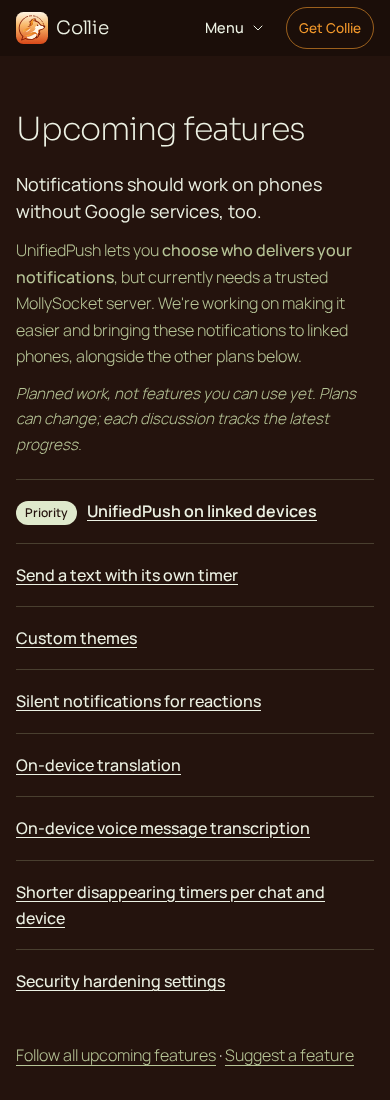
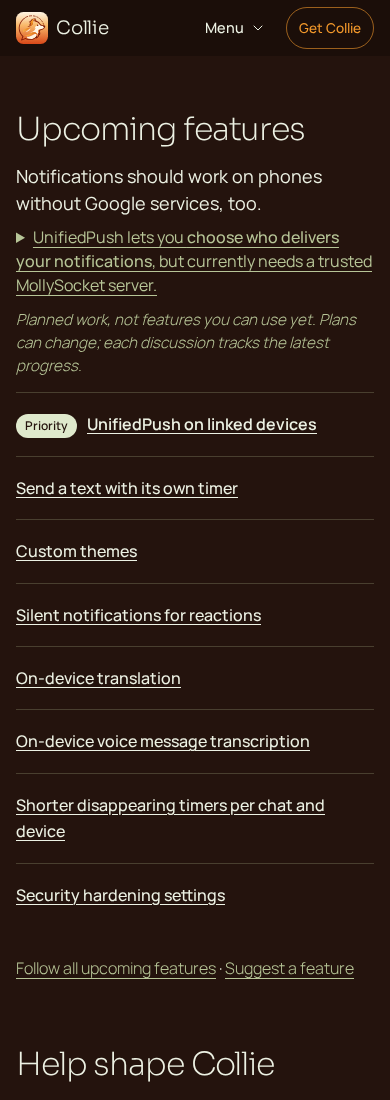
Record readable roadmap and supporting-text browser proof
Refresh affected source renders, measured disclosure behavior and current review context while retaining native image provenance.

Layer: website

diff --git a/docs/screenshots/pr-95/render-checks.md b/docs/screenshots/pr-95/render-checks.md
@@ -1,0 +1,156 @@
+# Render and disclosure observations
+
+Source: e532bde62ac1e4d4429b822055ee60ecc365c38a. Unmodified built HTML/CSS/assets rendered through render-source.py.txt. Overlay scrollbars; DPR1. These console observations were captured with the corresponding PNGs. No live-input success is inferred from programmatic DOM actions.
+
+## features-desktop-light.png
+
+```text
+ready {"width":1280,"height":1000,"usable":1280,"fonts":"loaded","images":[],"overflow":false,"dark":false}
+measure {"bodyTextToCardEdge":51.65625,"fiveHeight":668,"tap":{"width":297,"height":46},"helpWeight":"400"}
+planPositions {"scrollY":1169,"firstPlanBorderViewportY":1325.015625,"firstPlanBorderDocY":2494.015625,"firstPlanTitleViewportY":1344.015625,"leadHeight":27,"detailHeight":78.390625,"introCombinedHeight":117.390625,"statusHeight":50.15625,"statusToList":32}
+sectionSpacing {"featureToUpcoming":96,"upcomingToCommunity":96,"communityToGet":96,"bodyToDivider":20,"dividerToCardBottom":67.84375}
+disclosure {"open":true,"summaryHeight":44,"summaryTag":"SUMMARY","planCount":8,"helpTitle":"20px","detailWeight":"400","heroLedeWeight":"300"}
+position {"scrollY":1169,"section":23.875,"getY":3559.328125,"background":"rgb(249, 251, 244)"}
+```
+
+## features-tablet-light.png
+
+```text
+ready {"width":768,"height":1300,"usable":768,"fonts":"loaded","images":[true],"overflow":false,"dark":false}
+measure {"bodyTextToCardEdge":212.5625,"fiveHeight":668,"tap":{"width":276,"height":70},"helpWeight":"400"}
+planPositions {"scrollY":1307,"firstPlanBorderViewportY":1716.53125,"firstPlanBorderDocY":3023.53125,"firstPlanTitleViewportY":1735.53125,"leadHeight":27,"detailHeight":113.5625,"introCombinedHeight":152.5625,"statusHeight":50.15625,"statusToList":32}
+sectionSpacing {"featureToUpcoming":120,"upcomingToCommunity":64,"communityToGet":112,"bodyToDivider":20,"dividerToCardBottom":33}
+disclosure {"open":true,"summaryHeight":52.78125,"summaryTag":"SUMMARY","planCount":8,"helpTitle":"20px","detailWeight":"400","heroLedeWeight":"300"}
+position {"scrollY":1307,"section":56.171875,"getY":4258.046875,"background":"rgb(249, 251, 244)"}
+```
+
+## features-mobile-light.png
+
+```text
+ready {"width":390,"height":1100,"usable":390,"fonts":"loaded","images":[true],"overflow":false,"dark":false}
+measure {"bodyTextToCardEdge":17,"fiveHeight":614.6875,"tap":{"width":306,"height":48},"helpWeight":"400"}
+planPositions {"scrollY":1360,"firstPlanBorderViewportY":1522.84375,"firstPlanBorderDocY":2882.84375,"firstPlanTitleViewportY":1541.84375,"leadHeight":54,"detailHeight":72,"introCombinedHeight":134,"statusHeight":68.390625,"statusToList":14}
+sectionSpacing {"featureToUpcoming":96,"upcomingToCommunity":64,"communityToGet":112,"bodyToDivider":-387.765625,"dividerToCardBottom":404.765625}
+disclosure {"open":false,"summaryHeight":72,"summaryTag":"SUMMARY","planCount":8,"helpTitle":"20px","detailWeight":"400","heroLedeWeight":"300"}
+position {"scrollY":1360,"section":56.46875,"getY":4632.078125,"background":"rgb(249, 251, 244)"}
+```
+
+## features-narrow-light.png
+
+```text
+ready {"width":320,"height":1300,"usable":320,"fonts":"loaded","images":[true],"overflow":false,"dark":false}
+measure {"bodyTextToCardEdge":17,"fiveHeight":685.625,"tap":{"width":236,"height":48},"helpWeight":"400"}
+planPositions {"scrollY":1367,"firstPlanBorderViewportY":1733.875,"firstPlanBorderDocY":3100.875,"firstPlanTitleViewportY":1752.875,"leadHeight":81,"detailHeight":96,"introCombinedHeight":185,"statusHeight":68.390625,"statusToList":14}
+sectionSpacing {"featureToUpcoming":96,"upcomingToCommunity":64,"communityToGet":112,"bodyToDivider":-414.640625,"dividerToCardBottom":431.640625}
+disclosure {"open":false,"summaryHeight":96,"summaryTag":"SUMMARY","planCount":8,"helpTitle":"20px","detailWeight":"400","heroLedeWeight":"300"}
+position {"scrollY":1367,"section":56.15625,"getY":5043.671875,"background":"rgb(249, 251, 244)"}
+```
+
+## upcoming-desktop-light.png
+
+```text
+ready {"width":1280,"height":900,"usable":1280,"fonts":"loaded","images":[],"overflow":false,"dark":false}
+measure {"bodyTextToCardEdge":51.65625,"fiveHeight":668,"tap":{"width":297,"height":46},"helpWeight":"400"}
+planPositions {"scrollY":2127,"firstPlanBorderViewportY":367.015625,"firstPlanBorderDocY":2494.015625,"firstPlanTitleViewportY":386.015625,"leadHeight":27,"detailHeight":78.390625,"introCombinedHeight":117.390625,"statusHeight":50.15625,"statusToList":32}
+sectionSpacing {"featureToUpcoming":96,"upcomingToCommunity":96,"communityToGet":96,"bodyToDivider":20,"dividerToCardBottom":67.84375}
+disclosure {"open":true,"summaryHeight":44,"summaryTag":"SUMMARY","planCount":8,"helpTitle":"20px","detailWeight":"400","heroLedeWeight":"300"}
+position {"scrollY":2127,"section":23.71875,"getY":3559.328125,"background":"rgb(249, 251, 244)"}
+```
+
+## upcoming-mobile-dark.png
+
+```text
+ready {"width":390,"height":1100,"usable":390,"fonts":"loaded","images":[true],"overflow":false,"dark":true}
+measure {"bodyTextToCardEdge":17,"fiveHeight":614.6875,"tap":{"width":306,"height":48},"helpWeight":"400"}
+planPositions {"scrollY":2491,"firstPlanBorderViewportY":391.84375,"firstPlanBorderDocY":2882.84375,"firstPlanTitleViewportY":410.84375,"leadHeight":54,"detailHeight":72,"introCombinedHeight":134,"statusHeight":68.390625,"statusToList":14}
+sectionSpacing {"featureToUpcoming":96,"upcomingToCommunity":64,"communityToGet":112,"bodyToDivider":743.234375,"dividerToCardBottom":-726.234375}
+disclosure {"open":false,"summaryHeight":72,"summaryTag":"SUMMARY","planCount":8,"helpTitle":"20px","detailWeight":"400","heroLedeWeight":"300"}
+position {"scrollY":2491,"section":55.625,"getY":4632.078125,"background":"rgb(36, 19, 13)"}
+```
+
+## upcoming-narrow-light.png
+
+```text
+ready {"width":320,"height":1250,"usable":320,"fonts":"loaded","images":[true],"overflow":false,"dark":false}
+measure {"bodyTextToCardEdge":17,"fiveHeight":685.625,"tap":{"width":236,"height":48},"helpWeight":"400"}
+planPositions {"scrollY":2622,"firstPlanBorderViewportY":478.875,"firstPlanBorderDocY":3100.875,"firstPlanTitleViewportY":497.875,"leadHeight":81,"detailHeight":96,"introCombinedHeight":185,"statusHeight":68.390625,"statusToList":14}
+sectionSpacing {"featureToUpcoming":96,"upcomingToCommunity":64,"communityToGet":112,"bodyToDivider":840.359375,"dividerToCardBottom":-823.359375}
+disclosure {"open":false,"summaryHeight":96,"summaryTag":"SUMMARY","planCount":8,"helpTitle":"20px","detailWeight":"400","heroLedeWeight":"300"}
+position {"scrollY":2622,"section":55.828125,"getY":5043.671875,"background":"rgb(249, 251, 244)"}
+```
+
+## community-desktop-light.png
+
+```text
+ready {"width":1280,"height":900,"usable":1280,"fonts":"loaded","images":[],"overflow":false,"dark":false}
+measure {"bodyTextToCardEdge":51.65625,"fiveHeight":668,"tap":{"width":297,"height":46},"helpWeight":"400"}
+planPositions {"scrollY":2837,"firstPlanBorderViewportY":-342.984375,"firstPlanBorderDocY":2494.015625,"firstPlanTitleViewportY":-323.984375,"leadHeight":27,"detailHeight":78.390625,"introCombinedHeight":117.390625,"statusHeight":50.15625,"statusToList":32}
+sectionSpacing {"featureToUpcoming":96,"upcomingToCommunity":96,"communityToGet":96,"bodyToDivider":20,"dividerToCardBottom":67.84375}
+disclosure {"open":true,"summaryHeight":44,"summaryTag":"SUMMARY","planCount":8,"helpTitle":"20px","detailWeight":"400","heroLedeWeight":"300"}
+position {"scrollY":2837,"section":23.796875,"getY":3559.328125,"background":"rgb(249, 251, 244)"}
+```
+
+## community-mobile-dark.png
+
+```text
+ready {"width":390,"height":1300,"usable":390,"fonts":"loaded","images":[true],"overflow":false,"dark":true}
+measure {"bodyTextToCardEdge":17,"fiveHeight":614.6875,"tap":{"width":306,"height":48},"helpWeight":"400"}
+planPositions {"scrollY":3450,"firstPlanBorderViewportY":-567.15625,"firstPlanBorderDocY":2882.84375,"firstPlanTitleViewportY":-548.15625,"leadHeight":54,"detailHeight":72,"introCombinedHeight":134,"statusHeight":68.390625,"statusToList":14}
+sectionSpacing {"featureToUpcoming":96,"upcomingToCommunity":64,"communityToGet":112,"bodyToDivider":1702.234375,"dividerToCardBottom":-1685.234375}
+disclosure {"open":false,"summaryHeight":72,"summaryTag":"SUMMARY","planCount":8,"helpTitle":"20px","detailWeight":"400","heroLedeWeight":"300"}
+position {"scrollY":3450,"section":55.765625,"getY":4632.078125,"background":"rgb(36, 19, 13)"}
+```
+
+## community-narrow-light.png
+
+```text
+ready {"width":320,"height":1500,"usable":320,"fonts":"loaded","images":[true],"overflow":false,"dark":false}
+measure {"bodyTextToCardEdge":17,"fiveHeight":685.625,"tap":{"width":236,"height":48},"helpWeight":"400"}
+planPositions {"scrollY":3749,"firstPlanBorderViewportY":-648.125,"firstPlanBorderDocY":3100.875,"firstPlanTitleViewportY":-629.125,"leadHeight":81,"detailHeight":96,"introCombinedHeight":185,"statusHeight":68.390625,"statusToList":14}
+sectionSpacing {"featureToUpcoming":96,"upcomingToCommunity":64,"communityToGet":112,"bodyToDivider":1967.359375,"dividerToCardBottom":-1950.359375}
+disclosure {"open":false,"summaryHeight":96,"summaryTag":"SUMMARY","planCount":8,"helpTitle":"20px","detailWeight":"400","heroLedeWeight":"300"}
+position {"scrollY":3749,"section":55.765625,"getY":5043.671875,"background":"rgb(249, 251, 244)"}
+```
+
+## downloads-footer-desktop-light.png
+
+```text
+ready {"width":1280,"height":1100,"usable":1280,"fonts":"loaded","images":[true,true],"overflow":false,"dark":false}
+measure {"bodyTextToCardEdge":51.65625,"fiveHeight":668,"tap":{"width":297,"height":46},"helpWeight":"400"}
+planPositions {"scrollY":3471,"firstPlanBorderViewportY":-976.984375,"firstPlanBorderDocY":2494.015625,"firstPlanTitleViewportY":-957.984375,"leadHeight":27,"detailHeight":78.390625,"introCombinedHeight":117.390625,"statusHeight":50.15625,"statusToList":32}
+sectionSpacing {"featureToUpcoming":96,"upcomingToCommunity":96,"communityToGet":96,"bodyToDivider":20,"dividerToCardBottom":67.84375}
+disclosure {"open":true,"summaryHeight":44,"summaryTag":"SUMMARY","planCount":8,"helpTitle":"20px","detailWeight":"400","heroLedeWeight":"300"}
+position {"scrollY":3471,"section":88.328125,"getY":3559.328125,"background":"rgb(249, 251, 244)"}
+```
+
+## downloads-mobile-dark.png
+
+```text
+ready {"width":390,"height":1100,"usable":390,"fonts":"loaded","images":[true,true],"overflow":false,"dark":true}
+measure {"bodyTextToCardEdge":17,"fiveHeight":614.6875,"tap":{"width":306,"height":48},"helpWeight":"400"}
+planPositions {"scrollY":4576,"firstPlanBorderViewportY":-1693.15625,"firstPlanBorderDocY":2882.84375,"firstPlanTitleViewportY":-1674.15625,"leadHeight":54,"detailHeight":72,"introCombinedHeight":134,"statusHeight":68.390625,"statusToList":14}
+sectionSpacing {"featureToUpcoming":96,"upcomingToCommunity":64,"communityToGet":112,"bodyToDivider":2828.234375,"dividerToCardBottom":-2811.234375}
+disclosure {"open":false,"summaryHeight":72,"summaryTag":"SUMMARY","planCount":8,"helpTitle":"20px","detailWeight":"400","heroLedeWeight":"300"}
+position {"scrollY":4576,"section":56.078125,"getY":4632.078125,"background":"rgb(36, 19, 13)"}
+```
+
+## page-top-mobile-light.png
+
+```text
+ready {"width":390,"height":844,"usable":390,"fonts":"loaded","images":[true,true,true,true],"overflow":false,"dark":false}
+measure {"bodyTextToCardEdge":17,"fiveHeight":614.6875,"tap":{"width":306,"height":48},"helpWeight":"400"}
+planPositions {"scrollY":0,"firstPlanBorderViewportY":2882.84375,"firstPlanBorderDocY":2882.84375,"firstPlanTitleViewportY":2901.84375,"leadHeight":54,"detailHeight":72,"introCombinedHeight":134,"statusHeight":68.390625,"statusToList":14}
+sectionSpacing {"featureToUpcoming":96,"upcomingToCommunity":64,"communityToGet":112,"bodyToDivider":-1747.765625,"dividerToCardBottom":1764.765625}
+disclosure {"open":false,"summaryHeight":72,"summaryTag":"SUMMARY","planCount":8,"helpTitle":"20px","detailWeight":"400","heroLedeWeight":"300"}
+position {"scrollY":0,"section":56,"getY":4632.078125,"background":"rgb(249, 251, 244)"}
+```
+
+## Native disclosure DOM probes
+
+The diagnostic wrapper separately (a) invoked the actual summary twice and Why anchor once, (b) set the fragment before the existing site script, and (c) omitted only the site script. No CSS or page content was changed for these probes; these are not screenshot replacements or a browser-wide JavaScript-disable test.
+
+```text
+behavior {"mode":"click","before":false,"togglesOpen":true,"togglesClosed":true,"whyOpens":true,"planCount":8,"explanationVisible":true}
+behavior {"mode":"direct","open":true,"explanationVisible":true,"planCount":8}
+behavior {"mode":"no-site-js","open":true,"explanationVisible":true,"planCount":8}
+```

diff --git a/docs/screenshots/pr-95/README.md b/docs/screenshots/pr-95/README.md
@@ -1,10 +1,10 @@
 # Current website review evidence
 
-Implementation source is signed 53465c289ae5fc5487ea1900132a08e27c7569e0; native assets/provenance are signed b3b4857fe6ebc0338f732cd9129c8b1bc94880f0. Review the containing evidence commit as one stable candidate. No rating is supplied by the implementation owner.
+Implementation source is signed e532bde62ac1e4d4429b822055ee60ecc365c38a; native assets/provenance are signed b3b4857fe6ebc0338f732cd9129c8b1bc94880f0. Review the containing evidence commit as one stable candidate. No rating is supplied by the implementation owner.
 
 ## Current views
 
-All paths below are in this directory. The current phone page tops, desktop facts, Upcoming, downloads and phone introductions are freshly rendered after this focused clarity pass. Unchanged component views retain their original source provenance: feature views from b7b32031a75c, community from 4a954f19b0b0, downloads/footer from 2917bdc27ad5. Their component source/appearance is unchanged by this image-only hero pass; their document offsets are reported separately.
+All paths below are in this directory. Features at all four widths, Upcoming at 320/390/1280, community at 320/390/1280, desktop-light/phone-dark downloads and the 390 page top are freshly rendered from this source. The 390 page-top PNG is byte-identical to b11ce6f9cebac1ac52b8c711b188a249f1f13429. Other hero/about/download/footer views retain that revision's unchanged component appearance; their source provenance is explicit rather than claimed as new captures. Historical menu/Obtainium support retains its earlier provenance below.
 
 | View | File | Actual iframe CSS viewport / PNG dimensions |
 | --- | --- | --- |
@@ -35,9 +35,9 @@ Collie is an Android messenger for ordinary Signal users. Copy is largely approv
 
 Immediately below the hero, one introduction consolidates Signal compatibility and Signal/Molly foundations. The benefit leads, provenance is quieter, and Source and security details is an optional native disclosure. Side by side, package-name and one-account/two-app explanations remain absent from that introduction; installation verification still names the package. The legal footer disclaimer remains byte-identical.
 
-Matrix chat and GitHub Discussions forum are prominent, with distinct chat/thread-list icons, 40px icon boxes and 22px titles against 16.8px lighter Help subheads. Bug reporting/donations retain a separate Help the project group. Actions remain underlined, with selective bold/italic emphasis.
+Matrix chat and GitHub Discussions forum are prominent, with distinct chat/thread-list icons, 40px icon boxes and 22px titles; Help the project is a quieter 20px heading, with 16.8px Help subheads. Bug reporting/donations retain a separate Help the project group. Actions remain underlined, with selective bold/italic emphasis.
 
-Upcoming now separates the existing nine-word first sentence into an 18px/weight 400 visual lead; the full UnifiedPush/MollySocket and linked-phone sentences remain in a quieter 16px supporting paragraph. Normalized content is identical: no fact, disclaimer, list item or URL was removed.
+Upcoming retains the existing nine-word first sentence as an 18px/400 benefit lead. A native details summary keeps the complete UnifiedPush/trusted MollySocket sentence visible. Only the unchanged easier-setup/linked-phone sentence is disclosed. Phones initially close this detail; desktop, direct #upcoming entry and markup without the site script keep it open. The exact feature Why link opens it before following #upcoming. Ordinary menu navigation does not force it open. No sentence, disclaimer, plan or URL was removed. The native underlined summary remains focusable, with measured heights 96/72/44px at 320/390/1280.
 
 Plans are generated from the existing upcoming-planned-features category during daily builds, priority-labelled discussions first with a separate label-derived Priority badge. The supplied snapshot has ten discussions/eight plans. The planned-work disclaimer is explicit; URLs remain unchanged. Discussion 106's title “Send a text with its own timer” was checked against its source: holding Send applies a one-time timer to one text; no duration/start/view-once claim was invented.
 
@@ -72,7 +72,20 @@ Headline and lede wording, weight/line-height ratio, orange second sentence, nat
 
 Y is document CSS pixels at scrollY 0 in the accurate overlay-scrollbar renderer, using actual front-image geometry and matching native UI text bounds. Fixed phone gaps: header→headline 20px, headline→lede 20, lede→buttons 24, button rows 12, buttons→facts 20, facts→stage 16. Lede is 16px/26.4px. Focus-ring CSS is unchanged. At 768 and 1280, measured headline, lede, actions, stage and front-image rectangles/fonts are exactly identical to the prior candidate; only the third fact is deliberately absent.
 
-At 390 the Get panel grows 859.52→881.52px, exactly 22px, from the prerequisite's 20px line plus 2px margin. Existing card copy/Recommended/primary styles/handoff are unchanged; no extra auto-update promise. All six feature descriptions, community, legal line and planned disclaimer/list/URLs are byte-identical. This pass does not tighten the desktop feature card or alter native assets, metadata, local main or native proof.
+At 390 the Get panel grows 859.52→881.52px, exactly 22px, from the prerequisite's 20px line plus 2px margin. Existing card copy/Recommended/primary styles/handoff are unchanged; no extra auto-update promise. All six feature descriptions, community, legal line and planned disclaimer/list/URLs are byte-identical. The current pass preserves this phone hero/download behavior and all native assets, metadata, local main and native proof. It changes supporting text weight, roadmap disclosure, desktop lead balance and desktop section spacing only.
+
+## Verified focused changes and measurements
+
+| Supplied finding | Current evidence and disposition | Result |
+| --- | --- | --- |
+| Phone roadmap preamble hides first plan | Valid: first border was 568.06/478.64px at 320/390 with section top about 56px | 478.88/391.84px at the same header offset; lead 81/54px, summary 96/72px, planned note 68.39px, list gap 14px |
+| Secondary type is delicate | Valid: 300 body weight | 400 for secondary feature bodies (16px/24px), community descriptions (15.6px/25.74px), Help copy (17px desktop, 16px phone), Upcoming detail (16px); colors/hero lede/headings unchanged |
+| Desktop protection body/facts have an isolated band | Valid: body→divider 89.69px | 20px; the existing whole content group is centered with equal 67.84px outer clearance. Card remains 714.66×408px and six-card topology is unchanged; phone lead is unchanged |
+| Section gaps vary; Help heading outranks channels | Valid: measured text/group boundaries 191.98/64/179.19px, Help title 23.2px | One desktop --section-gap token yields 96/96/96px; Help title20px versus Matrix/forum22px |
+
+Visible desktop boundary definition is consistent: last Also included paragraph bottom→Upcoming heading top; Upcoming-more paragraph bottom→community heading top; entire Help group bottom→Get panel top. The shared gap token applies above 860px only. Desktop Upcoming supporting detail is 78.39px versus 79.17px before (0.78px shorter); its full-width open flow preserves the intro height without duplicated copy or a custom disclosure widget.
+
+Browser DOM-action probes on the actual built page observed: summary click opens, second click closes, exact Why click opens the explanation; all eight plans remain present. A direct-fragment setup and site-script-omitted setup both leave the native detail open with the full explanation visible. Those are programmatic DOM-action/source probes, not new trusted keyboard/physical-pointer transport evidence. Native summary supplies the keyboard behavior; T3 live input remains unavailable. No-JS markup defaults open.
 
 ## Layout and validation evidence
 
@@ -82,15 +95,15 @@ Current overlay-scrollbar measurements:
 
 | Width / usable width | Five-item region | Downloads document Y | Overflow |
 | --- | --- | --- | --- |
-|320 /320|685.63px|5137.02px|none|
-|390 /390|566.69px|4649.31px|none|
-|768 /768|644px|4203.81px|none|
-|1280 /1280|668px|3695.44px|none|
+|320 /320|685.63px|5043.67px|none|
+|390 /390|614.69px|4632.08px|none|
+|768 /768|668px|4258.05px|none|
+|1280 /1280|668px|3559.33px|none|
 
-The 390 compact region is unchanged by the final notification wording; 320 uses one extra 24px text line. The phone-only hero compaction moves downstream sections earlier; the desktop/tablet hero geometry is unchanged. Phone intro heading is 24px against 32px features (75%). Notification action is 306×48px at 390 and 236×48px at 320, above 24px. Earlier live T3 reserved 15px for a scrollbar: its390 region 614.73px was measured against real 978px baseline; that environment is distinct, not substituted for current source-render widths.
+The stronger secondary body weight adds two 24px lines to the combined five-item region at 390 and one at 768; the 320 and desktop region heights are unchanged. Text and links remain complete. The phone-only hero compaction moves downstream sections earlier; the desktop/tablet hero geometry is unchanged. Phone intro heading is 24px against 32px features (75%). Notification action is 306×48px at 390 and 236×48px at 320, above 24px. Earlier live T3 reserved 15px for a scrollbar: its390 region 614.73px was measured against real 978px baseline; that environment is distinct, not substituted for current source-render widths.
 
-The56px page-level sticky narrow header retains Menu/Get Collie and all five section links. Prior native Tab→Menu, Enter/Escape, outside/link closing and heading-clearance checks apply to unchanged navigation source; heading tops were 88–134px with header bottom 56px. Later timed-out pointer/key transport did not reach DOM and is not new successful interaction evidence. Native source disclosure is focusable/underlined, 44px high with 8px chevron gap. Previous cream-strip checks remain valid: full-width 40px bands after the curve were exactly 249/251/244 at 390/320. No CSS changed in this image pass.
+The56px page-level sticky narrow header retains Menu/Get Collie and all five section links. Prior native Tab→Menu, Enter/Escape, outside/link closing and heading-clearance checks apply to unchanged navigation source; heading tops were 88–134px with header bottom 56px. Later timed-out pointer/key transport did not reach DOM and is not new successful interaction evidence. Native source disclosure is focusable/underlined, 44px high with 8px chevron gap. Previous cream-strip checks remain valid: full-width 40px bands after the curve were exactly 249/251/244 at 390/320. Navigation and curve CSS remain unchanged. The preceding phone hero type/spacing refinement and this supporting-text/disclosure/desktop-spacing pass did change CSS; the unchanged navigation/curve evidence is not a claim that the whole stylesheet stayed fixed.
 
 Fourteen website tests pass (category/priority/title mapping/escaping/API failures/pagination/safe paths/Obtainium), the Fastlane metadata validator passes, and git diff --check passes. Native seed, offline centering and durable restore each collected/passed 1 test. Selected computed-CSS contrast evidence only: light badge 14.20/menu 15.69/facts 14.20; dark badge 14.20/menu 16.55/facts 8.01. No whole-site AA claim. The Impeccable detector used its limited fallback because parser modules are absent; no full automated audit is claimed. Impeccable 4.1.1 was already installed for Codex and used; no installation/download.
 
-Remaining design tradeoffs are visible in the images: a large genuine native profile header in the demo chat, rear-screen overlap and the technical setup detail in Upcoming. No independent approval is implied by passing checks. The requested localhost:8879 server/shared caches remain; temporary Android test sources, 47 generated build/cache directories and owned AVD/runtime were removed after exact proof was saved. Unrelated emulators/worktrees and user files were untouched.
+Remaining design tradeoffs are visible in the images: a large genuine native profile header in the demo chat, rear-screen overlap and a technical limitation in the visible Upcoming summary. No independent approval is implied by passing checks. The requested localhost:8879 server/shared caches remain; temporary Android test sources, 47 generated build/cache directories and owned AVD/runtime were removed after exact proof was saved. Unrelated emulators/worktrees and user files were untouched.
